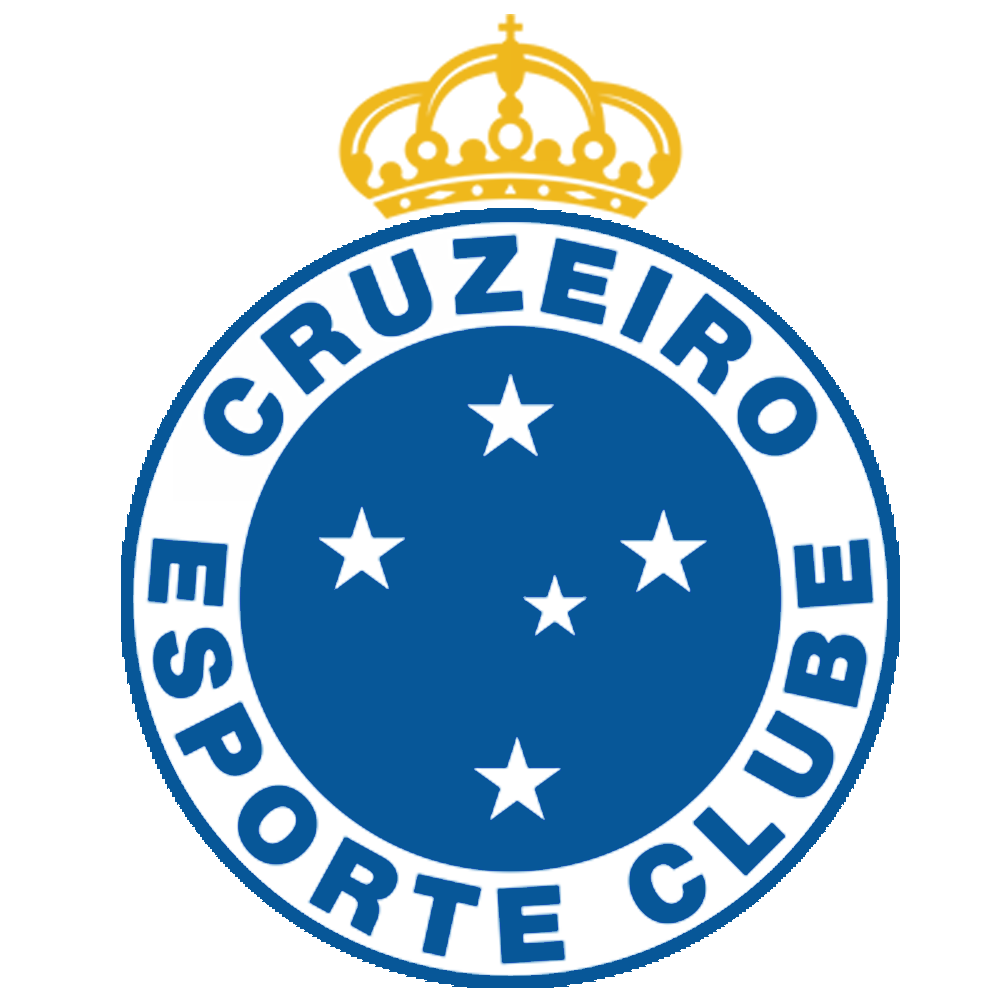
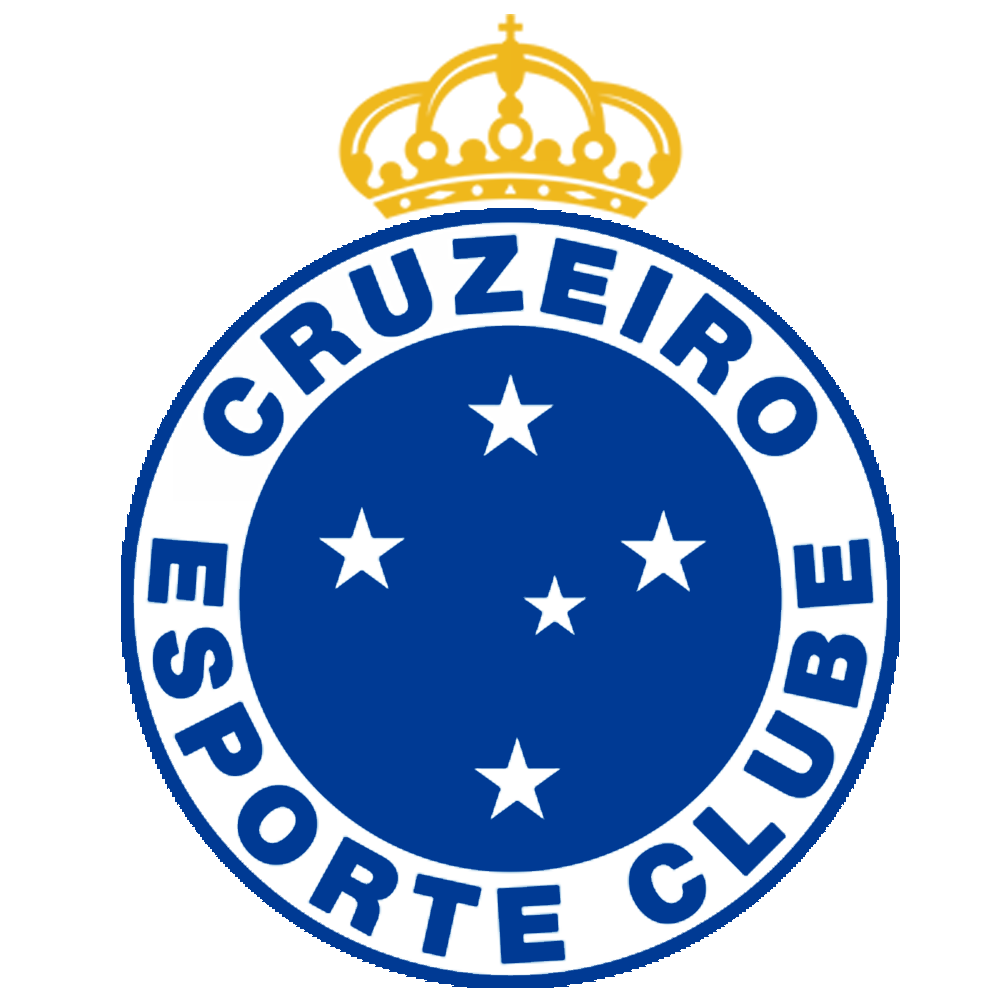
atualizando cores

diff --git a/cores.js b/cores.js
@@ -49,7 +49,7 @@ function coresTimes(time, jogo){
 		return ["black", "white"];
 		break;
 		case "Cerro Porteño-PAR":
-		return ["#c40215", "#073756"];
+		return ["#c40215", "white"];
 		break;
 		case "Chapecoense":
 		return ["#00913c", "white"];
@@ -61,7 +61,7 @@ function coresTimes(time, jogo){
 		return ["#00544d", "white"];
 		break;
 		case "Cruzeiro":
-		return ["#075798", "white"];
+		return ["#003a94", "white"];
 		break;
 		case "CSA":
 		return ["#075798", "white"];
@@ -168,7 +168,7 @@ function coresTimes(time, jogo){
 		return ["black", "white"];
 		break;
 		case "Portuguesa":
-		return ["red", "#105d11"];
+		return ["red", "white"];
 		break;
 		case "Real Garcilaso-PER":
 		return ["#0197ee", "#fdf21c"];
